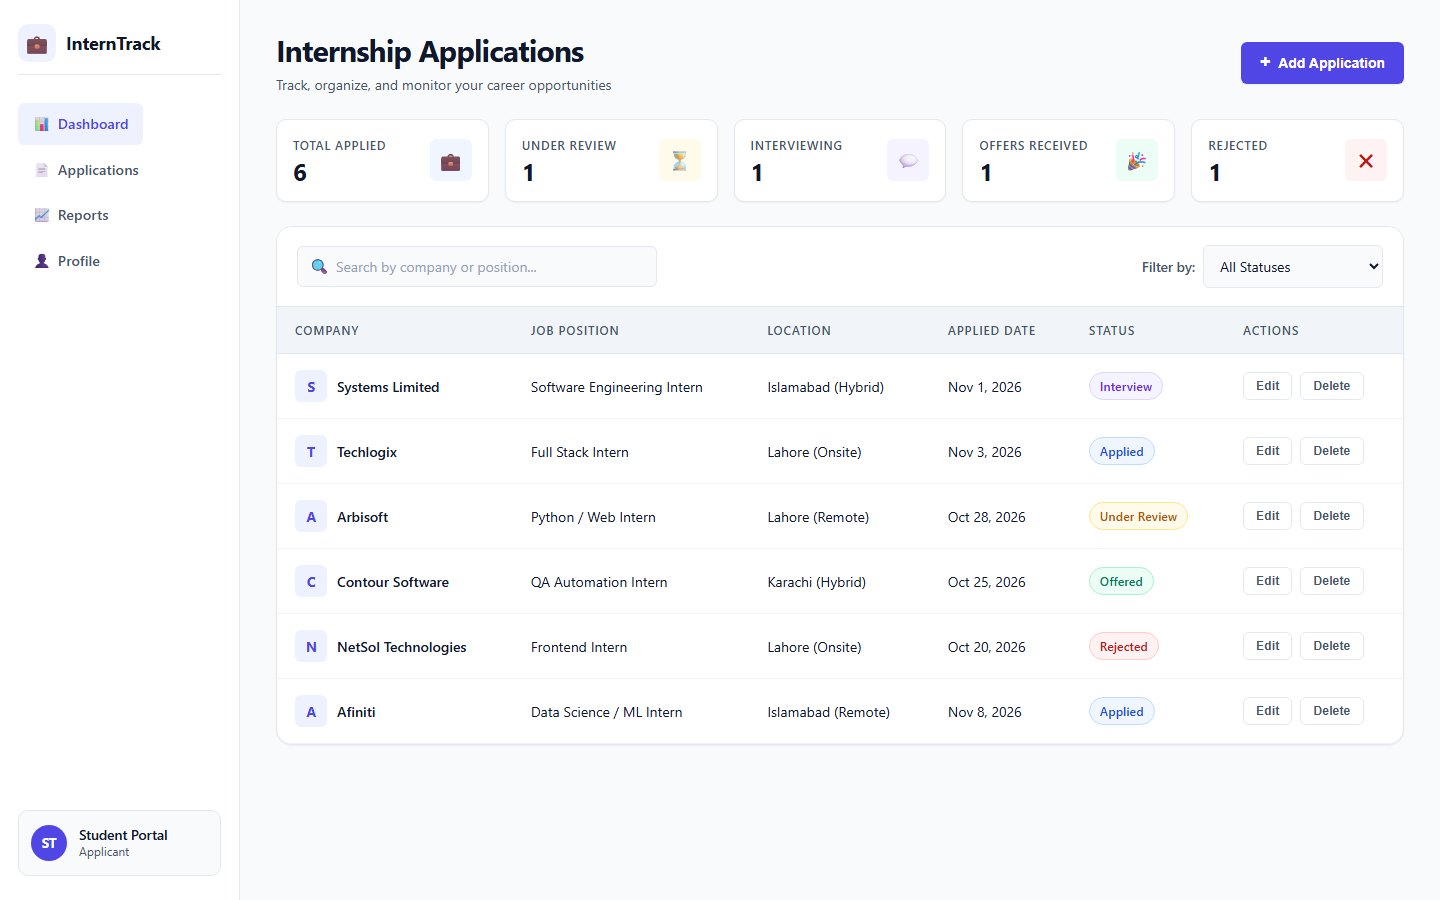
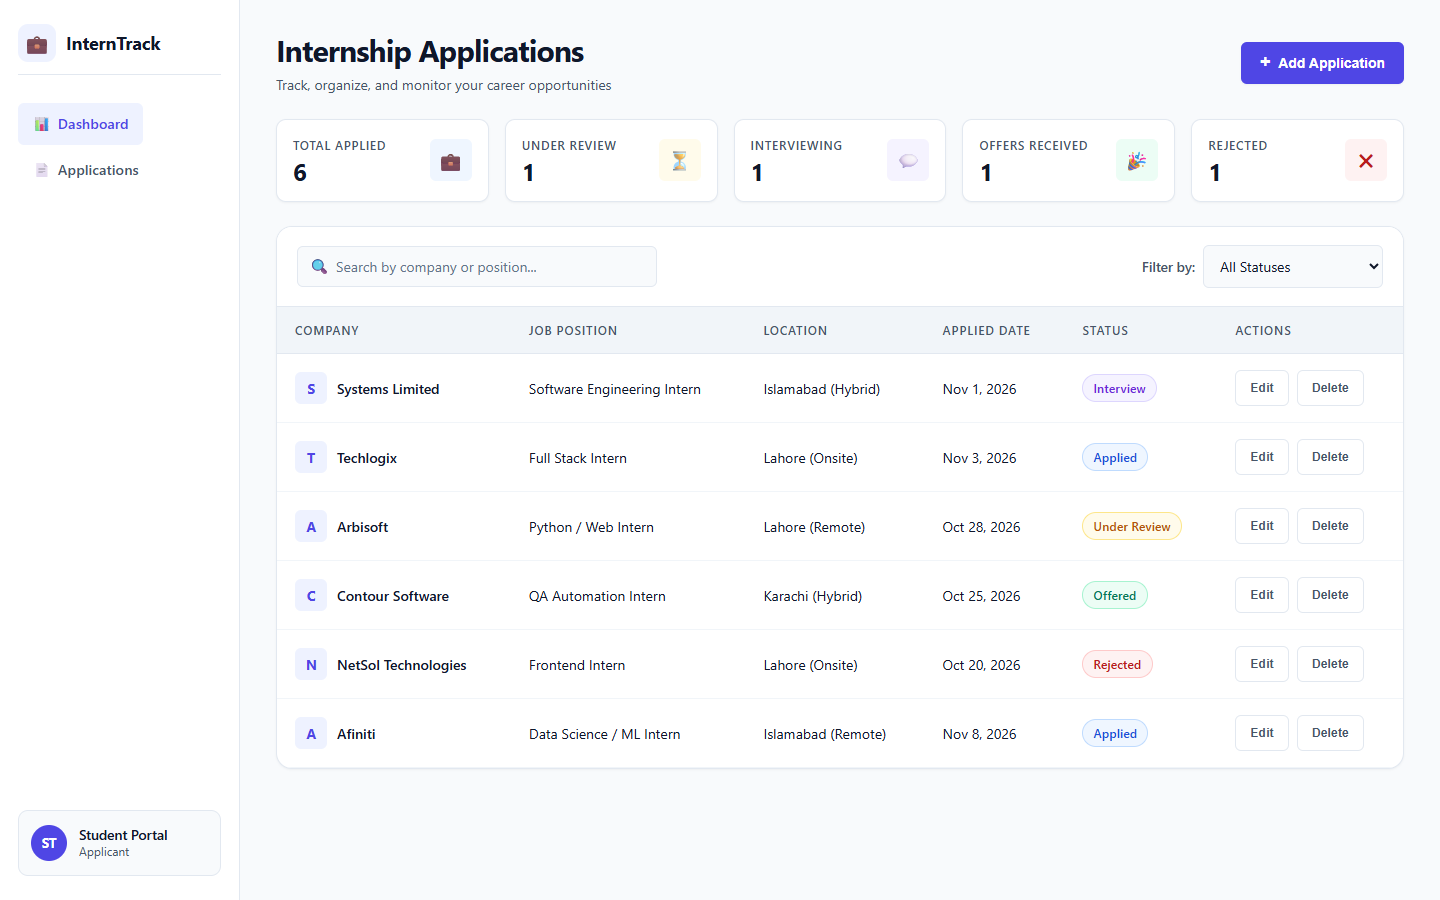
Docs: sync design note, wireframe, CSS audit and screenshots with final app; fix CSS header encoding

diff --git a/assignment-1/css/style.css b/assignment-1/css/style.css
@@ -1,5 +1,5 @@
 /* ==========================================================================
-   INTERNSHIP APPLICATION TRACKER Ã¢â‚¬â€ ASSIGNMENT 1 STYLESHEET
+   INTERNSHIP APPLICATION TRACKER - ASSIGNMENT 1 STYLESHEET
    Mobile-First Responsive Architecture (CSS Grid & Flexbox)
    Strictly Vanilla CSS (No External Fonts, Libraries, or Frameworks)
    ========================================================================== */

diff --git a/docs/CSS_AUDIT.md b/docs/CSS_AUDIT.md
@@ -5,7 +5,7 @@
 **Audited File:** `assignment-1/css/style.css`  
 **Referenced Files:** `assignment-1/index.html`, `docs/PROJECT_BRIEF.md`, `docs/wireframe.md`  
 **Audit Date:** 2026-11-13  
-**Status:** Audit Complete — No code changes made (pending approval)
+**Status:** Audit Complete — the findings below were reviewed and later resolved (see Addendum, §7)
 
 ---
 
@@ -15,7 +15,7 @@ A comprehensive quality, accessibility, responsive, and compliance audit of the 
 
 The implementation strictly satisfies all Assignment 1 course requirements:
 - **Zero external dependencies:** No CSS frameworks (Tailwind, Bootstrap), no CDN icons, and no external web fonts.
-- **Meaningful Layout Systems:** CSS Grid is employed for the 2-column app shell and 4-metric statistics grid; Flexbox is utilized for navigation, toolbars, modal dialogs, and mobile card rows.
+- **Meaningful Layout Systems:** CSS Grid is employed for the 2-column app shell and 5-metric statistics grid; Flexbox is utilized for navigation, toolbars, modal dialogs, and mobile card rows.
 - **Responsive Breakpoints:** Two explicit breakpoints (`768px` and `1024px`) with an adaptive table-to-card mobile transformation using native `data-label` attributes.
 - **WCAG 2.2 Level AA Contrast:** All major text and status badges surpass the 4.5:1 ratio (with body text reaching 17.04:1).
 
@@ -47,7 +47,7 @@ The application was loaded in headless Chromium across 4 viewports. Actual rende
 
 #### Finding M-01: Empty Table Appearance Prior to JavaScript Execution
 - **File & Location:** `assignment-1/index.html` (lines 176–190), `assignment-1/css/style.css` (lines 405–440)
-- **Description:** Since the six hardcoded records were removed per Correction 1, `<tbody>` is empty on initial load. The table header (`Company`, `Job Position`, etc.) renders with an empty white box below it, while `<div id="empty-state">` contains `hidden`.
+- **Description:** Since the six hardcoded records were removed from the HTML (they are now rendered by JavaScript), `<tbody>` is empty on initial load. The table header (`Company`, `Job Position`, etc.) renders with an empty white box below it, while `<div id="empty-state">` contains `hidden`.
 - **Impact:** Before JavaScript initializes or if JavaScript is disabled, the page displays empty table headers without explanation.
 - **Suggested Resolution:** In Step 5 (JavaScript), ensure `app.js` immediately checks array length and displays `#empty-state` if `applications.length === 0`, or provide a CSS `:empty` pseudo-class fallback:
   ```css
@@ -64,7 +64,7 @@ The application was loaded in headless Chromium across 4 viewports. Actual rende
 
 ### 3.3 Low Severity / UI Polish
 
-#### Finding L-01: Placeholder Text Contrast Ratio
+#### Finding L-01: Placeholder Text Contrast Ratio (Resolved — see §7)
 - **File & Location:** `assignment-1/css/style.css` (line 386, 563)
 - **Description:** `--text-subtle: #94a3b8` used for `::placeholder` yields a contrast ratio of **2.44:1** against `#ffffff` and `#f8fafc`. While WCAG 2.2 AA exempts inactive placeholders from the 4.5:1 rule, users with low vision or high-glare screens benefit from slightly darker placeholder text.
 - **Suggested Resolution:** Adjust placeholder color token or override:
@@ -75,7 +75,7 @@ The application was loaded in headless Chromium across 4 viewports. Actual rende
   }
   ```
 
-#### Finding L-02: Action Buttons Click Target on Mobile Card View
+#### Finding L-02: Action Buttons Click Target on Mobile Card View (Resolved — see §7)
 - **File & Location:** `assignment-1/css/style.css` (line 460–475)
 - **Description:** On mobile card view, `.action-buttons` are aligned to the right. The buttons (`.btn-action`) have `padding: 6px 12px` (approx 28px height). Mobile touch guidelines (WCAG 2.5.5) recommend a target size of at least 44×44px or sufficient spacing to prevent mis-taps.
 - **Suggested Resolution:** Increase touch padding on mobile media query:
@@ -123,7 +123,7 @@ WCAG 2.2 Level AA requires a contrast ratio of at least **4.5:1** for regular te
 | Rubric Criteria | Checked Requirement | Audit Verification Result |
 | :--- | :--- | :--- |
 | **Vanilla Stack** | No frameworks, no external libraries | **100% Compliant:** Zero imports, zero CDNs, pure modern CSS3. |
-| **Box Model & Layout** | CSS Grid & Flexbox | **100% Compliant:** Used purposefully for 2-column layout, 4-stat grid, and responsive toolbars. |
+| **Box Model & Layout** | CSS Grid & Flexbox | **100% Compliant:** Used purposefully for 2-column layout, 5-stat grid, and responsive toolbars. |
 | **Breakpoints** | At least 2 media-query breakpoints | **100% Compliant:** Mobile-first base with `768px` (Tablet) and `1024px` (Desktop) breakpoints. |
 | **Mobile Experience** | Usable on mobile viewports | **100% Compliant:** Table rows collapse into stacked cards with labels via `content: attr(data-label)`. |
 

diff --git a/docs/wireframe.md b/docs/wireframe.md
@@ -19,7 +19,7 @@ These are the same at every width; only their arrangement changes.
 | Element | Content as implemented |
 | :--- | :--- |
 | **Brand** | Briefcase icon (HTML entity) + "InternTrack" |
-| **Navigation list** | Dashboard (marked active), Applications, Reports, Profile — see §6 for what these do |
+| **Navigation list** | Dashboard (marked active) and Applications — see §6 for what these do |
 | **User badge** (desktop only) | "ST" avatar, "Student Portal", "Applicant" — static text |
 | **Page header** | Title "Internship Applications", subtitle "Track, organize, and monitor your career opportunities", and the **+ Add Application** button |
 | **Feedback banner** | Hidden by default. After an add, edit or delete it shows a message for about 4 seconds (green for add/edit, red for delete). It is a polite live region. |
@@ -45,8 +45,8 @@ Two-column CSS Grid: a 240 px sticky sidebar and the main workspace. The dashboa
 | ----------------- |  Track, organize, and monitor your career opportunities                     |
 |  Dashboard (act.)|                                                                             |
 |  Applications    |  (feedback banner appears here after add / edit / delete)                   |
-|  Reports         |                                                                             |
-|  Profile         |  +----------+ +----------+ +-----------+ +----------+ +----------+           |
+|                  |                                                                             |
+|                  |  +----------+ +----------+ +-----------+ +----------+ +----------+           |
 |                  |  | Total    | | Under    | |Interviewing| | Offers   | | Rejected |           |
 |                  |  | Applied  | | Review   | |            | | Received | |          |           |
 |                  |  |   6      | |   1      | |    1       | |   1      | |   1      |           |
@@ -78,7 +78,7 @@ The sidebar is a compact top bar (brand + horizontally scrollable navigation lin
 
 ```text
 +--------------------------------------------------------------------------+
-| [icon] InternTrack      Dashboard  Applications  Reports  Profile        |
+| [icon] InternTrack      Dashboard  Applications                          |
 +--------------------------------------------------------------------------+
 | Internship Applications                               [ + Add Application ]|
 | Track, organize, and monitor your career opportunities                    |
@@ -206,11 +206,11 @@ The status name is always written as text inside the pill, so colour is not the 
 
 - **Edit** opens the dialog pre-filled with the record's values.
 - **Delete** opens the browser's confirmation prompt ("Are you sure you want to delete the application for "…" - …?"). Choosing *Cancel* keeps the record. Confirming removes it, updates the counters and shows a red banner.
-- **Empty state** (shown when the list to display is empty): folder icon, heading "No applications found", text "No internship records match your current filter or search criteria.", and a **Clear Filters** button that resets the search box and the status filter. The same message appears if every record has been deleted.
+- **Empty state** (shown when the list to display is empty): folder icon, heading "No applications found", text "No internship records match your current filter or search criteria.", and a **Clear Filters** button that resets the search box and the status filter. If every record has been deleted, the heading changes to "No applications yet", the text invites the user to add their first application, and the Clear Filters button is hidden.
 
 ---
 
-## 6. Navigation (Placeholder Status)
+## 6. Navigation
 
 The navigation list contains **Dashboard** and **Applications**. Each links to its respective section in the page (`#dashboard` for the five metric cards and `#applications` for the directory toolbar and records). Clicking either link smoothly scrolls to the target section and updates the active navigation state. Non-functional placeholder links from earlier drafts (Reports, Profile) were removed so that every navigation control is active and functional.
 
@@ -283,7 +283,7 @@ Items that appeared in earlier design drafts of this wireframe but **do not exis
 | Earlier draft item | Actual state |
 | :--- | :--- |
 | Calendar and Settings navigation items | Not present |
-| Reports and Profile as working screens | Present only as placeholder links (§6) |
+| Reports and Profile as working screens | Not present; the placeholder links were removed (§6) |
 | Search bar in the top header | Search is in the toolbar above the table |
 | Sort dropdown | Not implemented |
 | "Showing X of Y applications" line | Not implemented |

diff --git a/docs/design-note.md b/docs/design-note.md
@@ -79,11 +79,11 @@ What was done:
 What was **not** done: testing in Firefox or Safari, testing on physical phones or tablets, testing with a screen reader, and a formal automated test suite.
 
 ### Stage 5 — Evaluation & Review
-- [`CSS_AUDIT.md`](CSS_AUDIT.md) reviews the stylesheet for layout, responsiveness and accessibility. Its findings that remain visible in the submitted CSS are: light-grey placeholder and character-count text (`#94a3b8`, roughly 2.5 : 1 against white, below the 4.5 : 1 guideline for normal text) and small action buttons (about 28 px tall) that are below the 44 px touch-target guideline.
+- [`CSS_AUDIT.md`](CSS_AUDIT.md) reviews the stylesheet for layout, responsiveness and accessibility. Its contrast and touch-target findings were fixed afterwards: secondary text, placeholders and the character counter now use `#64748b` (4.61 : 1 on white, meeting the 4.5 : 1 guideline), and the Edit/Delete buttons have a 36 px minimum height. They are still below the stricter 44 px touch-target guideline, which remains a known limitation.
 - This is a **partial** review. The project does not claim full WCAG 2.2 AA conformance.
 
 ### Stage 6 — Deployment & Maintenance
-- For Assignment 1 the application is delivered as static files in a GitHub repository and can be run by opening `assignment-1/index.html` in a browser (see the README). A hosted URL is not documented here.
+- For Assignment 1 the application is delivered as static files in a GitHub repository and can be run by opening `assignment-1/index.html` in a browser (see the README). It is also deployed to GitHub Pages by the workflow in `.github/workflows/deploy.yml`, which publishes the `assignment-1` folder; the live URL is given in the README.
 - Maintenance is planned as a progression through the later assignments (§3.3). The separation of rendering, state, validation and event wiring in `app.js` is intended to make that migration easier, but no later-stage functionality exists in this submission.
 
 ---
@@ -167,7 +167,7 @@ The *Add / Edit* dialog is a native `<dialog>` opened with `showModal()`. It is 
 | Location | **Required** (up to 50 characters). |
 | Application date | Must be a real calendar date and **no later than 30 days after today** (the date picker's `max` is set from the user's local date when the page loads). There is no earliest date. |
 | Job posting URL | Optional. If entered, it must be a valid URL using **`http` or `https`** only. |
-| Sidebar items | *Dashboard*, *Applications*, *Reports* and *Profile* are links to in-page anchors that do not exist, so they do not change the view. They are visual placeholders. The user badge ("Student Portal / Applicant") is static text; there is no login. |
-| Empty state | The same message ("No applications found … match your current filter or search criteria") and *Clear Filters* button are used whether nothing matches the filters or every record has been deleted. |
+| Sidebar items | *Dashboard* and *Applications* link to the real in-page sections `#dashboard` and `#applications`; clicking one scrolls smoothly to it and updates the active link. Earlier placeholder links (Reports, Profile) were removed so there are no dead links. The user badge ("Student Portal / Applicant") is static text; there is no login. |
+| Empty state | Two messages are used. If records exist but none match the search/filter, the page shows "No applications found" with a *Clear Filters* button. If every record has been deleted, it shows "No applications yet" with a prompt to add one, and the *Clear Filters* button is hidden. |
 | Accessibility | Labelled controls, landmarks, a live region for notifications, focus styling and inline error messages linked to fields are implemented. Conformance with WCAG 2.2 AA is **not** claimed; see the limits in §2 (Stage 5). |
 | Performance | No performance measurements were made, and none are claimed. |
